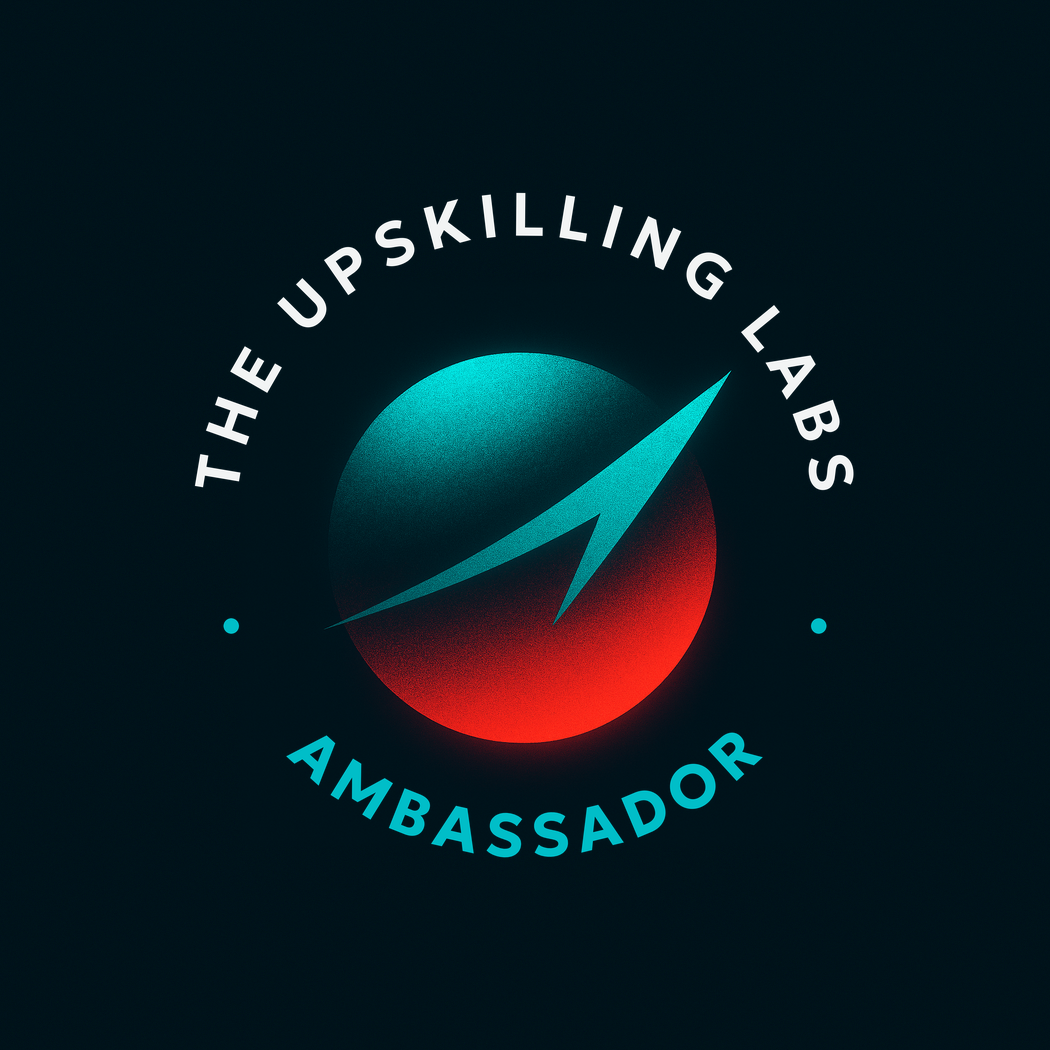
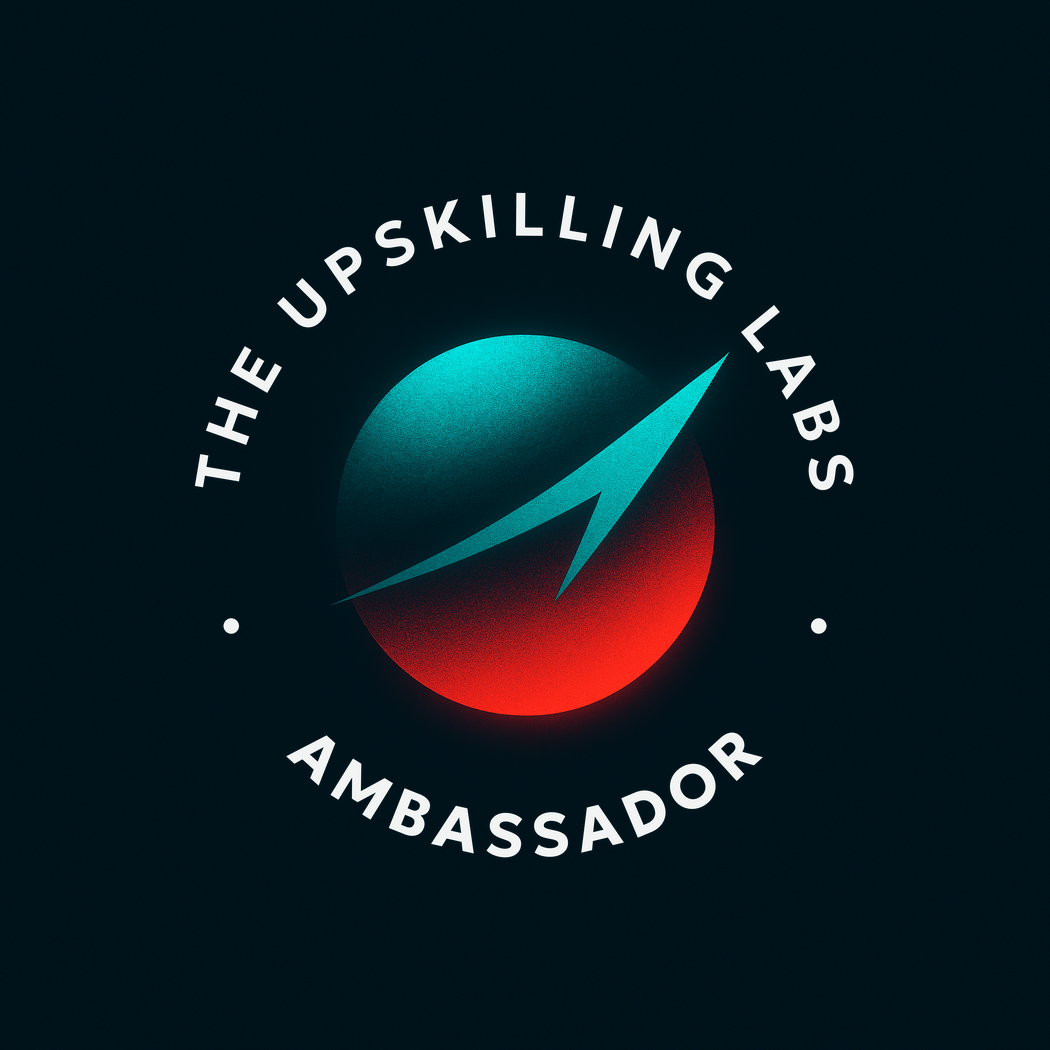
Centre the orb on the button and set the lettering in one colour
The orb, not the whole mark, now sits at the centre of the button. The
swoosh is left out of the centring. THE UPSKILLING LABS, AMBASSADOR and
the separator dots are all white.

Claude-Session: https://claude.ai/code/session_01XKsNEHi8zSBaP9Uzfm5Zkd

diff --git a/design/button/README.md b/design/button/README.md
@@ -2,6 +2,6 @@
 
 `ambassador-button-1.25in.png` is print-ready art for Sticker Mule's 1.25" round button: 1.75" square at 600 dpi, RGB.
 
-- The orb mark (`brandkit/assets/orb-mark.png`) sits on ink, ringed by THE UPSKILLING LABS on top and AMBASSADOR below. The type is Geologica, set in capitals with wide letter-spacing.
+- The orb mark (`brandkit/assets/orb-mark.png`) sits on ink with the orb centred on the button; the swoosh doesn't count toward the centring. THE UPSKILLING LABS runs across the top and AMBASSADOR across the bottom, all in white Geologica capitals with wide letter-spacing.
 - Geometry comes from Sticker Mule's 1.25" template. The button edge is 1.25" across and the cut line is 1.623". Art between the two wraps around the rolled edge. The text stays on the flat of the face, from 12.25 to 14.05 mm off centre.
 - Sticker Mule recommends CMYK, so check the teal on the proof.
